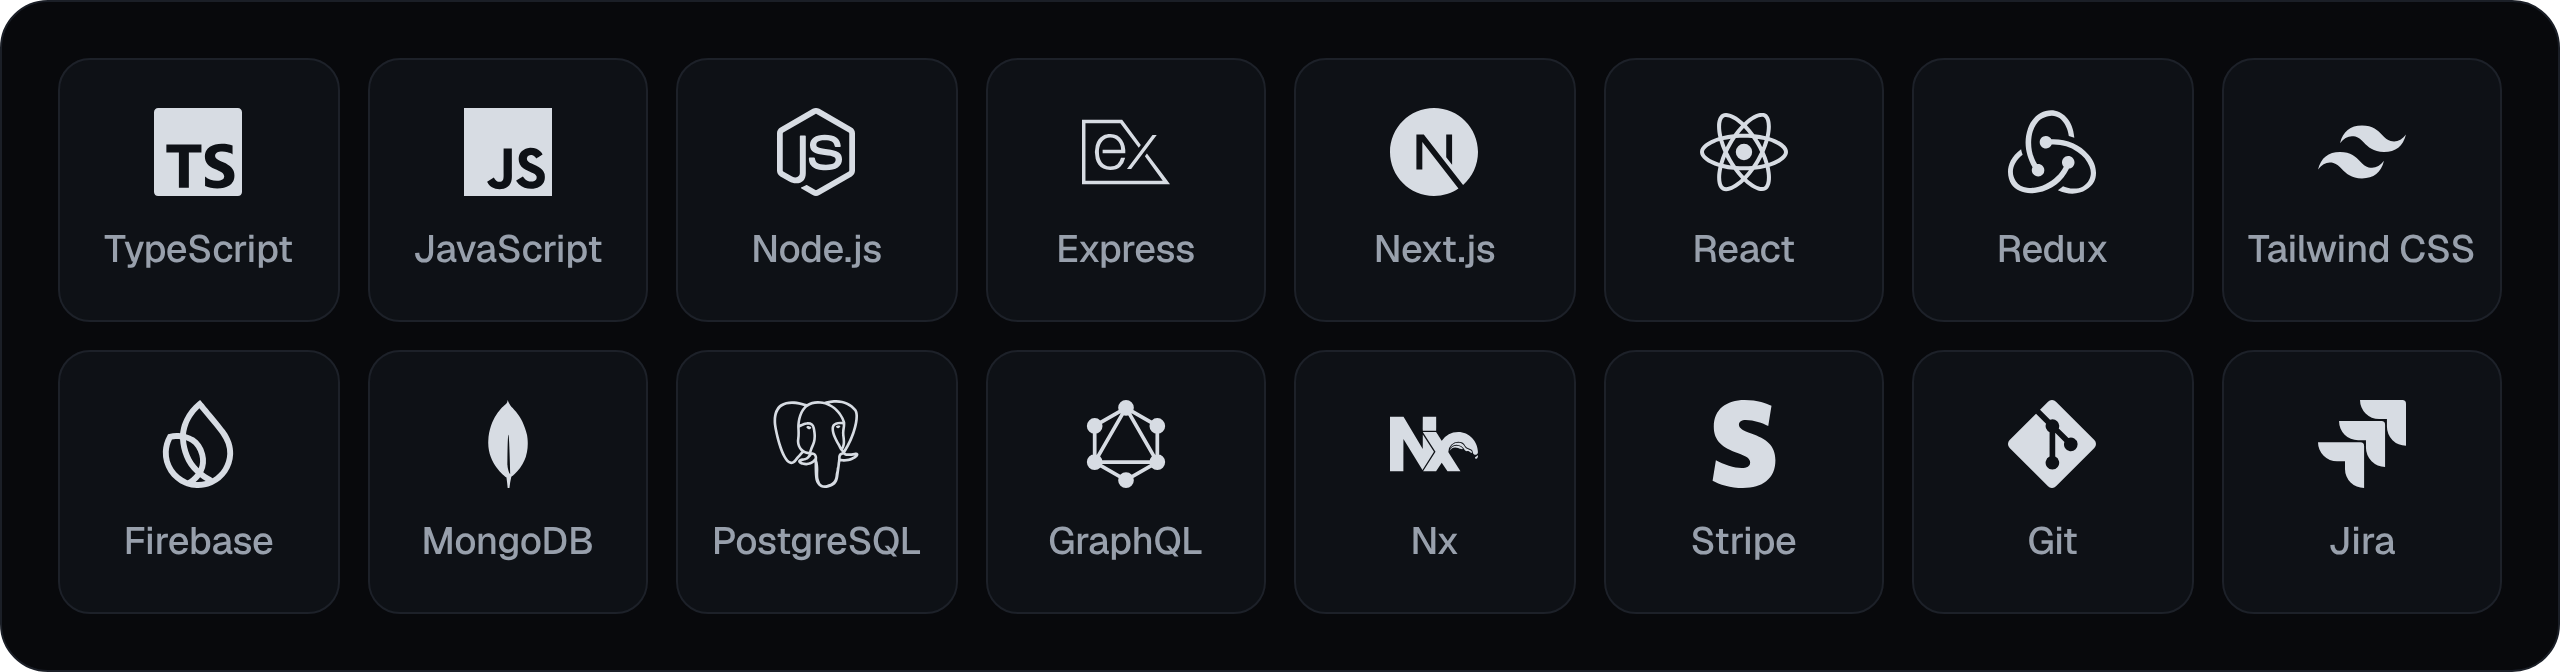
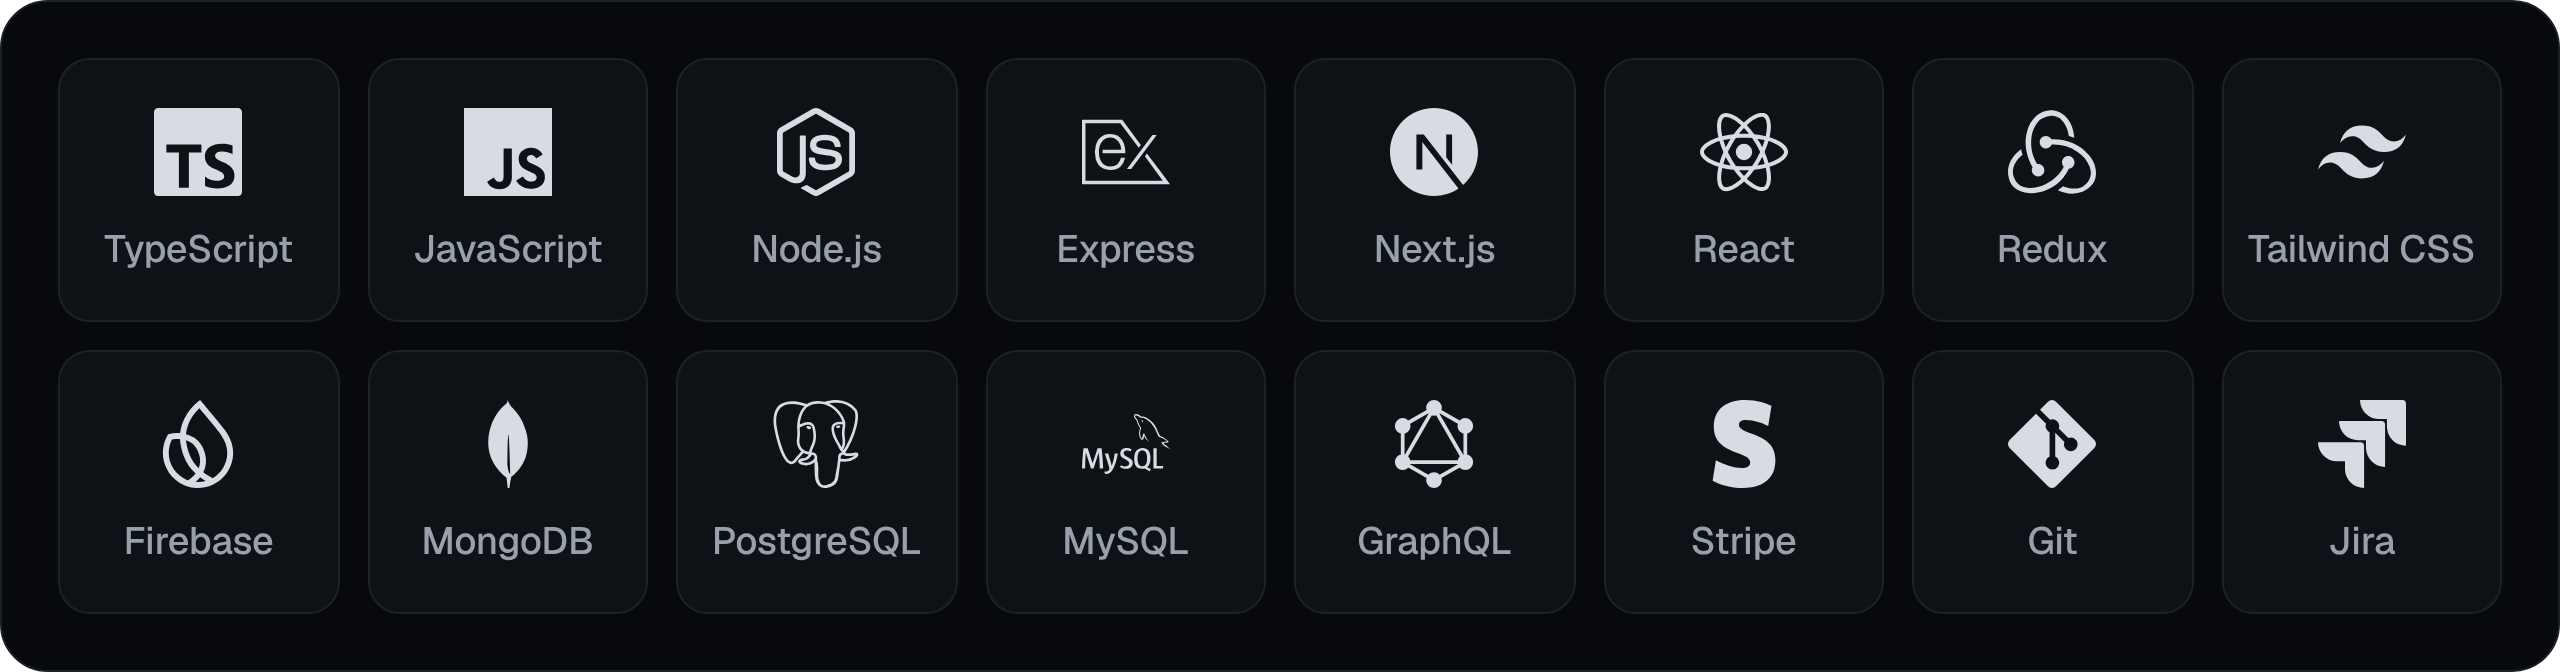
Remove Nx monorepo from the profile README
Drop Nx from the toolkit table and aNinja chips, and swap the Nx tile in
the tech-stack image for MySQL to keep the 8x2 grid.

Claude-Session: https://claude.ai/code/session_01FN1yKUjNm28DjZRHtTkEC9

diff --git a/README.md b/README.md
@@ -40,7 +40,7 @@ At **Devaxl** I engineer **[aNinja](https://www.aninja.com/)**, a CRM and busine
 <picture>
   <source media="(prefers-color-scheme: dark)" srcset="./assets/stack-dark.png">
   <source media="(prefers-color-scheme: light)" srcset="./assets/stack-light.png">
-  <img src="./assets/stack-dark.png" width="100%" alt="TypeScript, JavaScript, Node.js, Express, Next.js, React, Redux, Tailwind CSS, Firebase, MongoDB, PostgreSQL, GraphQL, Nx, Stripe, Git, Jira">
+  <img src="./assets/stack-dark.png" width="100%" alt="TypeScript, JavaScript, Node.js, Express, Next.js, React, Redux, Tailwind CSS, Firebase, MongoDB, PostgreSQL, MySQL, GraphQL, Stripe, Git, Jira">
 </picture>
 
 <details>
@@ -54,7 +54,7 @@ At **Devaxl** I engineer **[aNinja](https://www.aninja.com/)**, a CRM and busine
 | **Frontend** | React, Next.js, Redux, Tailwind CSS, responsive UI |
 | **Databases** | MongoDB, Firestore, PostgreSQL, MySQL |
 | **Cloud** | Firebase (Authentication, Firestore, Cloud Functions), AWS (working knowledge) |
-| **Architecture** | Nx monorepo, REST API design, real-time data sync, authentication, RBAC, multi-tenant isolation, feature gating |
+| **Architecture** | REST API design, real-time data sync, authentication, RBAC, multi-tenant isolation, feature gating |
 | **Integrations** | Stripe, Twilio, Nylas, Algolia, Meta, WordPress, Zapier |
 | **Workflow** | Git, GitHub, Jira, Agile / Scrum, code review, debugging |
 | **AI-assisted** | Cursor, Claude, Antigravity, OpenAI API |
@@ -77,7 +77,7 @@ At **Devaxl** I engineer **[aNinja](https://www.aninja.com/)**, a CRM and busine
 
 **[aNinja CRM](https://www.aninja.com/)** · Production B2B SaaS  
 CRM for lead management, marketing automation and business communication. Streamed 100K+ lead imports, multi-tenant isolation, role-based access control, Calendly-style booking and AI-powered onboarding.  
-`Next.js` `Node.js` `TypeScript` `Firebase` `Redux` `Nx`
+`Next.js` `Node.js` `TypeScript` `Firebase` `Redux`
 
 **Password Manager** · Web app and Chrome extension  
 LastPass-inspired vault with AES-256 encryption, role-based access, multi-factor authentication (Google, Microsoft, Duo, Email), autofill, a password generator, Emergency Access and dark-web monitoring via Enzoic.  
